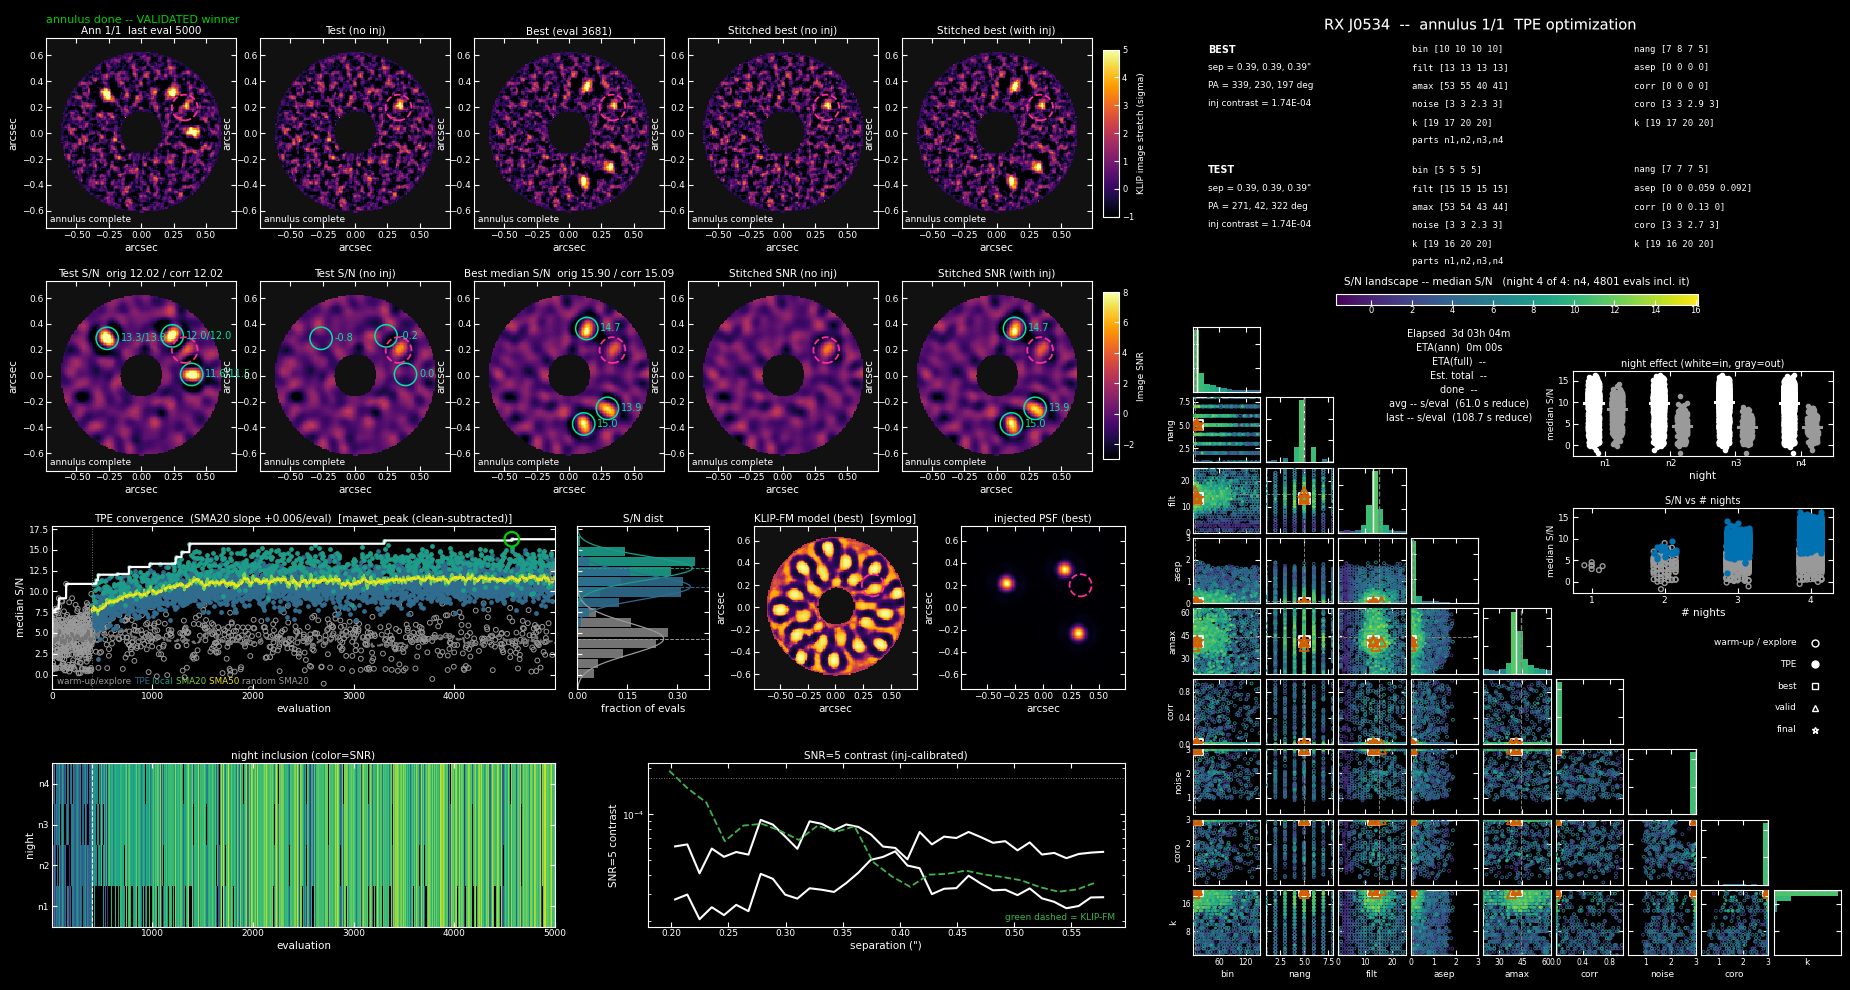
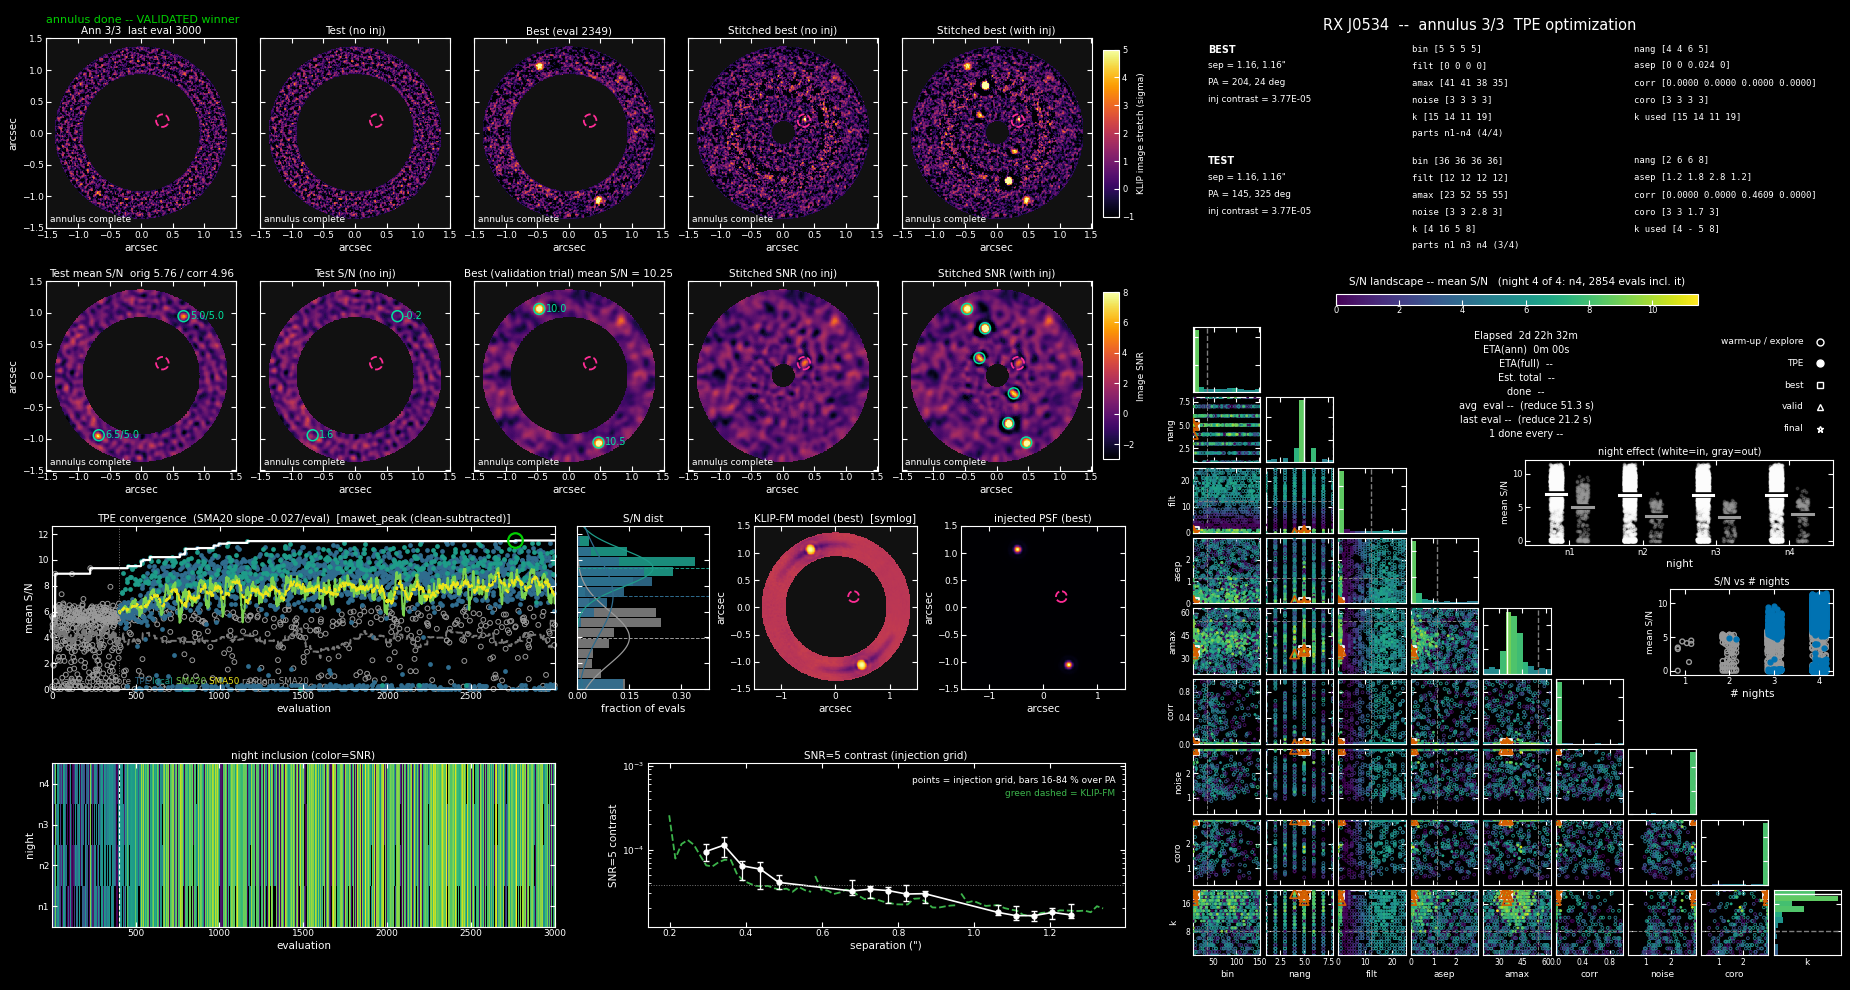
The README's panel over three annuli
- docs/img/step_display.png is the annulus-done frame of the last annulus of
  scripts/readme_panel.py's RX J0534 run (Kevin Wagner, 2026-11-07): the
  companion's annulus (0.20-0.58") and two more of its width outward (to
  1.35"), 3,000 evaluations each, all three validated.  The run began on
  7c87dea and was resumed on 84b8891, so the frame circles the stitch at the
  winners' sources and titles the best S/N cell from its validation trial.
  On the stitch the companion reads S/N 9.02 (FAP 5.7E-09) and the six
  injected sources 10.0 to 14.7.  It replaces the single annulus at 5,000
  evaluations of 2026-10-30.

Claude-Session: https://claude.ai/code/session_01EiqFzbA4C8K8mimrrPdLAM

diff --git a/CHANGELOG.md b/CHANGELOG.md
@@ -1,5 +1,16 @@
 # Changelog
 
+## Unreleased — 2026-11-21 (the README's panel over three annuli)
+
+- **The README's panel is RX J0534's three-annulus run** (Kevin Wagner, 2026-11-07).
+  `docs/img/step_display.png` is the annulus-done frame of the last annulus of
+  `scripts/readme_panel.py`'s run: the companion's annulus (0.20–0.58") and two more of its
+  width outward (to 1.35"), 3,000 evaluations each, all three validated.  The run began on
+  `895d2bf` and was resumed on `a795c83`, so the frame circles the stitch at the winners'
+  sources and titles the best S/N cell from its validation trial.  On the stitch the companion
+  reads S/N 9.02 (FAP 5.7E-09, a detection at the operating FAP) and the six injected sources
+  10.0 to 14.7.  It replaces the single annulus at 5,000 evaluations of 2026-10-30.
+
 ## Unreleased — 2026-11-21 (frames that hold NaN beyond their edge, the outer regions only some frames cover)
 
 From the NOMIC archive session's note of 2026-11-21, "outer regions not covered by every frame", on
